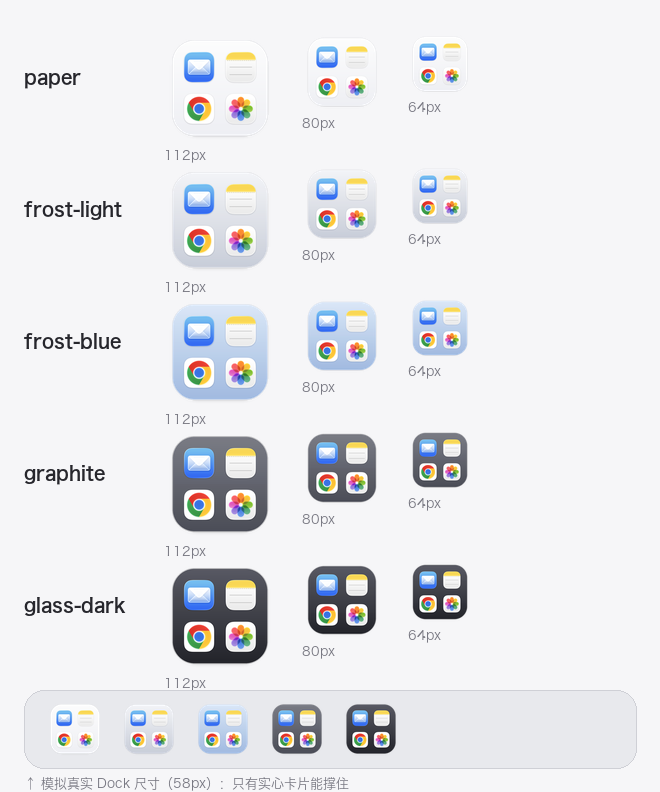
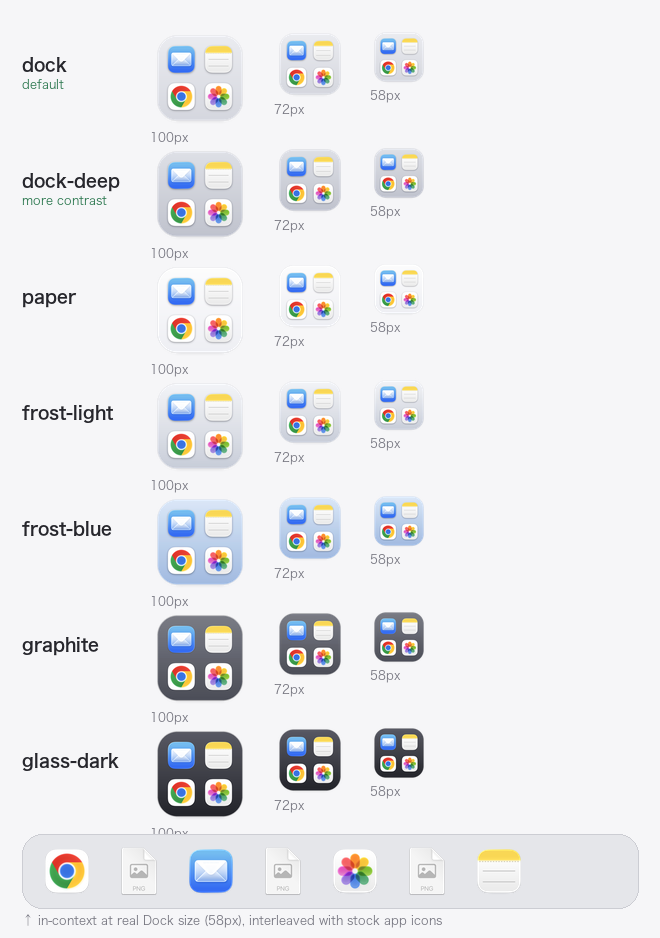
style: 底板改为与 Dock 栏同调的浅灰，并为每个图标加投影
用户反馈：背景太白，有的应用图标不太好辨认。

根因：很多 App 图标本身就是白色圆角方块（Hermes / WorkBuddy 这类），
放在纯白底板上边界消失，只剩中间的彩色 logo 可见、图标形状丢了。

- 新增 dock 风格（默认）：上下渐变 (238,239,243) -> (212,214,222)，与 Dock 栏同调
- 新增 dock-deep：再深一档，白图标对比更强
- 新增逐图标柔和投影 _drop_shadow()，只在浅色风格上启用；
  参数按画布边长比例给（blur 1.1% / 下移 0.7% / 强度 0.34）
- README / pitfalls 补上这条结论与选风格的方法论

另：把根目录的本地工作图加入 .gitignore —— 它们含真实 Dock 内容，不该进公开仓库。

diff --git a/scripts/dockgroup.py b/scripts/dockgroup.py
@@ -99,28 +99,38 @@ BG_RADIUS = 0.235       # 文件夹底圆角
 #   pad/gap: 网格内边距 / 格子间距（占文件夹边长比例）
 #   shadow: 是否加投影（让图标从 Dock 上"浮"起来）
 STYLES = {
-    "frost-light": dict(
-        bg=((248, 249, 252, 248), (196, 201, 213, 251)),
-        hair=(255, 255, 255, 205), edge=((112, 116, 132, 115), 0.0025),
-        cell=0.440, pad=0.085, gap=0.045, shadow=True),
-    "frost-blue": dict(
-        bg=((224, 235, 251, 249), (154, 182, 222, 251)),
-        hair=(255, 255, 255, 210), edge=((74, 108, 158, 120), 0.0025),
-        cell=0.440, pad=0.085, gap=0.045, shadow=True),
-    "glass-dark": dict(
-        bg=((90, 91, 101, 249), (28, 29, 35, 252)),
-        hair=(255, 255, 255, 125), edge=((0, 0, 0, 145), 0.0025),
-        cell=0.440, pad=0.085, gap=0.045, shadow=True),
-    "graphite": dict(
-        bg=((124, 126, 136, 250), (68, 70, 80, 252)),
-        hair=(255, 255, 255, 155), edge=((0, 0, 0, 155), 0.0025),
-        cell=0.440, pad=0.085, gap=0.045, shadow=True),
+    # 与 Dock 栏同调的浅灰（默认）。白底 App 图标在这个灰度上能显出形状
+    "dock": dict(
+        bg=((238, 239, 243, 252), (212, 214, 222, 253)),
+        hair=(255, 255, 255, 195), edge=((132, 135, 148, 125), 0.0025),
+        cell=0.440, pad=0.085, gap=0.045, shadow=True, icon_shadow=True),
+    # 比 dock 再深一档，白图标对比更强
+    "dock-deep": dict(
+        bg=((226, 228, 234, 252), (188, 191, 203, 253)),
+        hair=(255, 255, 255, 205), edge=((110, 114, 129, 142), 0.0025),
+        cell=0.440, pad=0.085, gap=0.045, shadow=True, icon_shadow=True),
     "paper": dict(
         bg=((255, 255, 255, 253), (238, 239, 244, 253)),
         hair=(255, 255, 255, 225), edge=((146, 149, 160, 135), 0.0022),
-        cell=0.440, pad=0.085, gap=0.045, shadow=True),
+        cell=0.440, pad=0.085, gap=0.045, shadow=True, icon_shadow=True),
+    "frost-light": dict(
+        bg=((248, 249, 252, 248), (196, 201, 213, 251)),
+        hair=(255, 255, 255, 205), edge=((112, 116, 132, 115), 0.0025),
+        cell=0.440, pad=0.085, gap=0.045, shadow=True, icon_shadow=True),
+    "frost-blue": dict(
+        bg=((224, 235, 251, 249), (154, 182, 222, 251)),
+        hair=(255, 255, 255, 210), edge=((74, 108, 158, 120), 0.0025),
+        cell=0.440, pad=0.085, gap=0.045, shadow=True, icon_shadow=True),
+    "glass-dark": dict(
+        bg=((90, 91, 101, 249), (28, 29, 35, 252)),
+        hair=(255, 255, 255, 125), edge=((0, 0, 0, 145), 0.0025),
+        cell=0.440, pad=0.085, gap=0.045, shadow=True, icon_shadow=False),
+    "graphite": dict(
+        bg=((124, 126, 136, 250), (68, 70, 80, 252)),
+        hair=(255, 255, 255, 155), edge=((0, 0, 0, 155), 0.0025),
+        cell=0.440, pad=0.085, gap=0.045, shadow=True, icon_shadow=False),
 }
-DEFAULT_STYLE = "paper"
+DEFAULT_STYLE = "dock"
 
 # 预览图字体（macOS 26 已移除 PingFang.ttc）
 FONT_CANDIDATES = [
@@ -350,6 +360,21 @@ def _vertical_gradient(size, top, bottom):
     return row.resize((size, size), Image.NEAREST)
 
 
+def _drop_shadow(canvas, icon, pos, blur=0.011, offset=0.007, strength=0.34):
+    """在 canvas 上、icon 位置的下方画一层柔和投影。
+
+    为什么需要：白底的 App 图标（Hermes / WorkBuddy 这类白圆角方块）
+    放在浅色底板上会和背景糊成一片，只剩中间的黑 logo 能看见，形状丢了。
+    加一层投影，图标的轮廓就立起来了。
+    """
+    S = canvas.width
+    mask = Image.new("L", canvas.size, 0)
+    mask.paste(icon.split()[3], (pos[0], pos[1] + max(1, int(S * offset))))
+    mask = mask.filter(ImageFilter.GaussianBlur(max(2, int(S * blur))))
+    mask = mask.point(lambda v: int(v * strength))
+    canvas.paste(Image.new("RGBA", canvas.size, (30, 32, 42, 255)), (0, 0), mask)
+
+
 def make_mosaic(icon_paths, out, size: int = 1024,
                 style: str = DEFAULT_STYLE) -> Path:
     """把若干 App 图标合成一张 iOS 风格的文件夹图标。"""
@@ -408,12 +433,16 @@ def make_mosaic(icon_paths, out, size: int = 1024,
         slots = [(pad, pad), (pad + cell + gap, pad),
                  (pad, pad + cell + gap), (pad + cell + gap, pad + cell + gap)]
 
+    with_icon_shadow = st.get("icon_shadow", False)
     for i, ip in enumerate(icon_paths[:4]):
         try:
             ic = Image.open(ip).convert("RGBA").resize((cell, cell), Image.LANCZOS)
         except Exception:
             continue
-        canvas.alpha_composite(ic, (inset + slots[i][0], inset + slots[i][1]))
+        pos = (inset + slots[i][0], inset + slots[i][1])
+        if with_icon_shadow:
+            _drop_shadow(canvas, ic, pos)
+        canvas.alpha_composite(ic, pos)
 
     out.parent.mkdir(parents=True, exist_ok=True)
     canvas.save(out, "PNG")

diff --git a/references/pitfalls.md b/references/pitfalls.md
@@ -492,3 +492,48 @@ if let vis = NSScreen.screens.first(where: { NSMouseInRect(m, $0.frame, false) }
 ```bash
 launchctl bootout gui/$(id -u) ~/Library/LaunchAgents/<旧label>.plist
 ```
+
+---
+
+## 13. 纯白底板会让白底 App 图标糊掉
+
+用户反馈：**背景太白，有的应用图标不太好辨认**。
+
+原因很具体：很多 App 图标本身就是**白色的圆角方块**（Hermes、WorkBuddy、
+以及不少开发工具都是），把这样的图标放进纯白底板：
+
+```
+纯白底板 (255) + 白底图标 (255)  →  边界消失，只剩中间的彩色 logo 可见，图标形状丢了
+```
+
+这不是「图标做得不好」，是**底板与图标同色**导致的。两条修法一起上：
+
+### ① 底板改成与 Dock 栏同调的浅灰
+
+新增 `dock` 风格，上下渐变 `(238,239,243)` → `(212,214,222)`，而不是 `(255,…)`。
+白底图标在这个灰度上就显出轮廓了。图标本身偏灰白的还可以再用 `dock-deep`
+（`(226,228,234)` → `(188,191,203)`），对比更强。
+
+### ② 每个 App 图标叠一层很轻的投影
+
+只换底色还不够 —— 白图标在白/浅灰底上依然只有「半个」可见。给每个格子里的图标
+加一层柔和投影，轮廓才真正立起来（iOS 的主屏图标也做了同样的事）：
+
+```python
+def _drop_shadow(canvas, icon, pos, blur=0.011, offset=0.007, strength=0.34):
+    S = canvas.width
+    mask = Image.new("L", canvas.size, 0)
+    mask.paste(icon.split()[3], (pos[0], pos[1] + max(1, int(S * offset))))
+    mask = mask.filter(ImageFilter.GaussianBlur(max(2, int(S * blur))))
+    mask = mask.point(lambda v: int(v * strength))
+    canvas.paste(Image.new("RGBA", canvas.size, (30, 32, 42, 255)), (0, 0), mask)
+```
+
+参数按画布边长的比例给（blur 1.1%、下移 0.7%、强度 0.34），这样换尺寸不用重调。
+只在浅色风格上开（`icon_shadow=True`）；深色风格上阴影没有意义。
+
+### 选风格的方法论
+
+一定要做一张**「把候选图标夹在真实 App 图标中间、按真实 Dock 尺寸并排」**的对比图。
+单独看大图很容易选错 —— 白色底板单看挺干净，放进 Dock 一比就发现它和邻居的
+白底图标糊在一起了。
